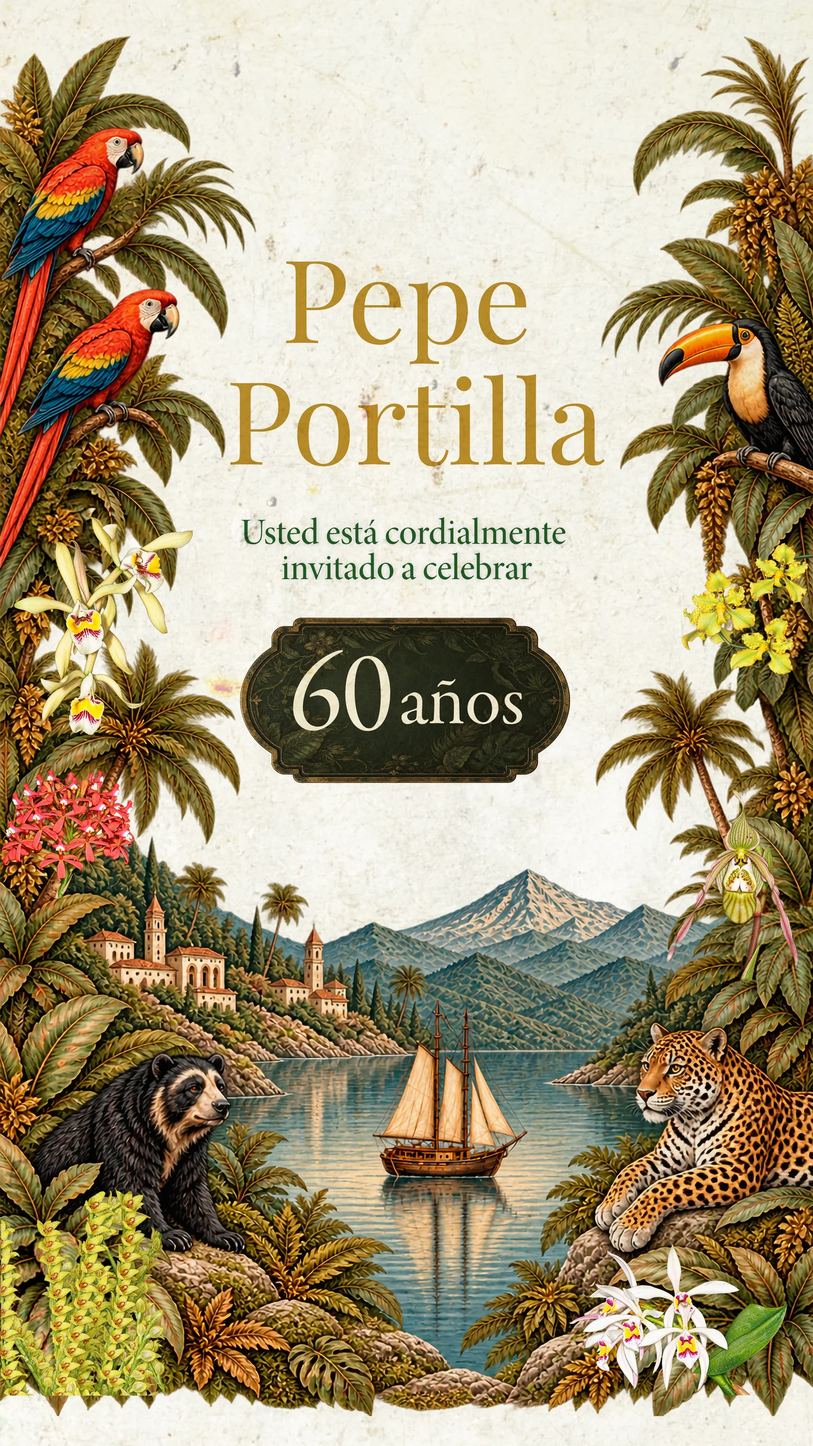
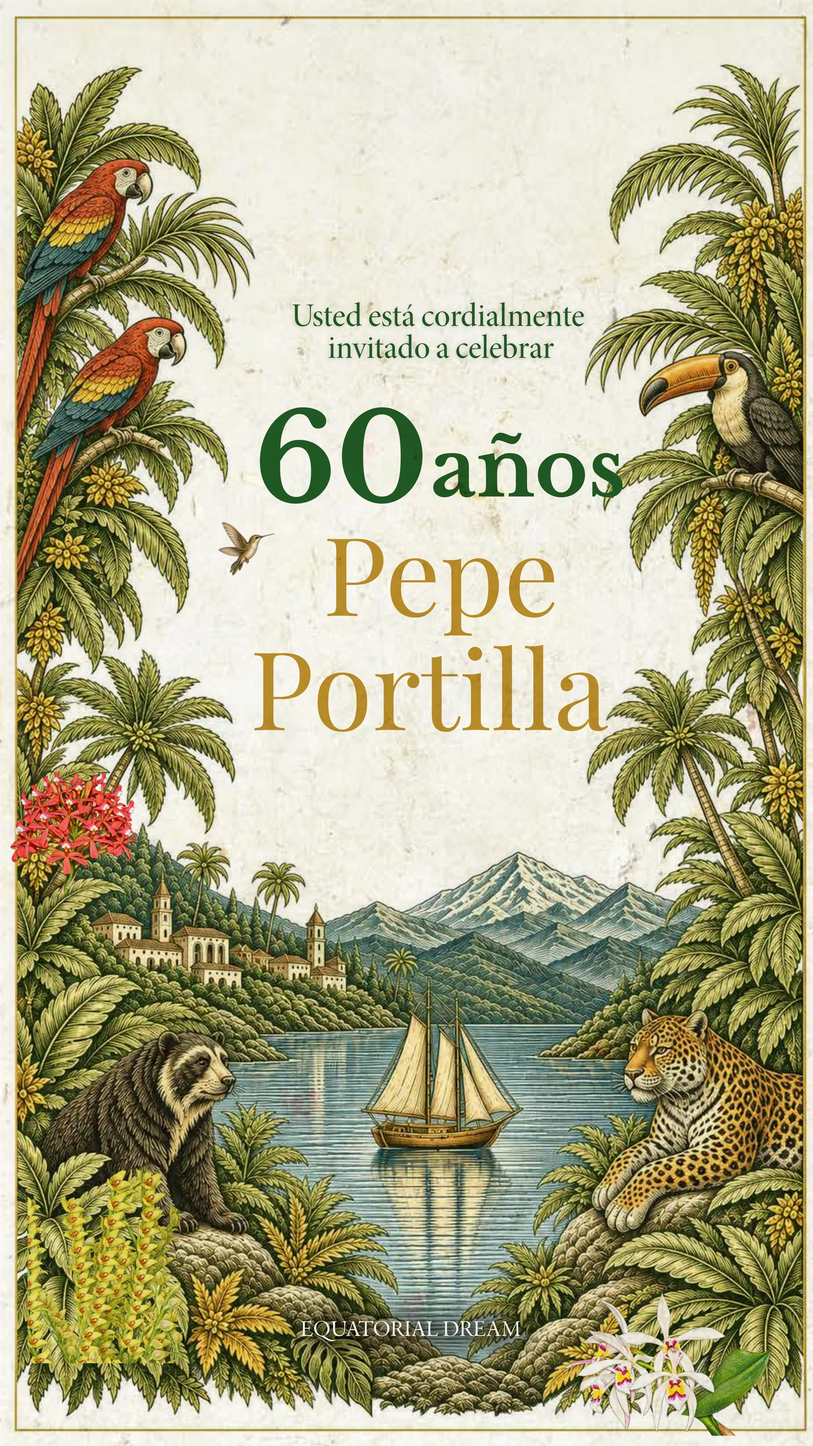
Add files via upload

diff --git a/index.html b/index.html
@@ -89,14 +89,14 @@
         <!-- 5. Fecha y lugar -->
         <section class="pagina" data-pag="fecha" aria-label="Fecha y lugar">
           <img class="base" src="img/p05_fecha.webp" alt="Sábado 9 de enero, 4pm. El evento tendrá lugar en Uzhupud Garden, Paute - Ecuador." width="1440" height="2560" decoding="async">
-          <span class="late" style="--l:31.5;--t:74.3;--w:37;--h:4.2" data-img="p05_fecha"></span>
-          <a class="zona" data-accion="mapa" target="_blank" rel="noopener" aria-label="Ver ubicación en el mapa" style="left:31.5%;top:74.3%;width:37%;height:4.2%"></a>
-          <a class="zona suave" data-accion="mapa" target="_blank" rel="noopener" tabindex="-1" aria-hidden="true" style="left:18%;top:51%;width:64%;height:19%"></a>
+          <span class="late" style="--l:34.7;--t:78;--w:31.9;--h:3.6" data-img="p05_fecha"></span>
+          <a class="zona" data-accion="mapa" target="_blank" rel="noopener" aria-label="Ver ubicación en el mapa" style="left:33%;top:77%;width:35%;height:5.6%"></a>
+          <a class="zona suave" data-accion="mapa" target="_blank" rel="noopener" tabindex="-1" aria-hidden="true" style="left:18%;top:55%;width:64%;height:20%"></a>
         </section>
 
         <!-- 6. Agenda -->
         <section class="pagina" data-pag="agenda" aria-label="Agenda de la noche">
-          <img class="base" src="img/p06_agenda.webp" alt="Agenda de la noche: ceremonia en la Capilla San José 16h00, cóctel de bienvenida en el Museo 17h00, cena de recepción 20h00, fiesta de celebración 20h30." width="1440" height="2560" decoding="async">
+          <img class="base" src="img/p06_agenda.webp" alt="Agenda de la noche: ceremonia en la Capilla San José 16h00, cóctel 17h00, cena de recepción 20h00, fiesta de celebración 20h30." width="1440" height="2560" decoding="async">
           <img class="estrella" src="img/p06_estrella.png" alt="" aria-hidden="true">
         </section>
 
@@ -107,23 +107,25 @@
 
         <!-- 8. Confirmación -->
         <section class="pagina" data-pag="confirmacion" aria-label="Confirmación de asistencia">
-          <img class="base" src="img/p08_confirmacion.webp" alt="Agradecemos su confirmación hasta el 27 de diciembre del 2026." width="1440" height="2560" decoding="async">
-          <span class="late" style="--l:9.4;--t:64.8;--w:42;--h:5.4" data-img="p08_confirmacion"></span>
-          <a class="zona" data-accion="confirmar" target="_blank" rel="noopener" aria-label="Confirmar asistencia por WhatsApp" style="left:9.4%;top:64.8%;width:42%;height:5.4%"></a>
+          <img class="base" src="img/p08_confirmacion.webp" alt="Agradecemos su confirmación hasta el 28 de diciembre de 2026. Por la naturaleza de la celebración, este evento será exclusivamente para adultos; agradecemos confirmar únicamente la asistencia de las personas contempladas en su invitación." width="1440" height="2560" decoding="async">
+          <span class="late" style="--l:15.4;--t:62.2;--w:38.8;--h:4.9" data-img="p08_confirmacion"></span>
+          <a class="zona" data-accion="confirmar" target="_blank" rel="noopener" aria-label="Confirmar asistencia por WhatsApp" style="left:14%;top:61%;width:41.6%;height:7.2%"></a>
         </section>
 
         <!-- 9. Hospedaje -->
         <section class="pagina" data-pag="hospedaje" aria-label="Hospedaje con tarifa especial">
           <img class="base" src="img/p09_hospedaje.webp" alt="Hospedaje. Tarifa especial disponible para nuestros amigos en Uzhupud Garden." width="1440" height="2560" decoding="async">
-          <span class="late" style="--l:50.5;--t:56.8;--w:38.5;--h:4.8" data-img="p09_hospedaje"></span>
-          <a class="zona" data-accion="hospedaje" target="_blank" rel="noopener" aria-label="Reservar hospedaje por WhatsApp" style="left:50.5%;top:56.8%;width:38.5%;height:4.8%"></a>
+          <span class="late" style="--l:53;--t:58.5;--w:38.7;--h:4.9" data-img="p09_hospedaje"></span>
+          <a class="zona" data-accion="hospedaje" target="_blank" rel="noopener" aria-label="Reservar hospedaje por WhatsApp" style="left:51.5%;top:57.3%;width:41.7%;height:7.3%"></a>
         </section>
 
         <!-- 10. Obsequio -->
         <section class="pagina" data-pag="obsequio" aria-label="Obsequio">
-          <img class="base" src="img/p10_obsequio.webp" alt="Obsequio. Su obsequio en sobre cerrado o transferencia será donado para la Fundación Santa María de la Esperanza." width="1440" height="2560" decoding="async">
-          <span class="late suave" style="--l:33.5;--t:56.2;--w:33;--h:4.8" data-img="p10_obsequio"></span>
-          <a class="zona suave" data-accion="obsequio" target="_blank" rel="noopener" aria-label="Fundación Santa María de la Esperanza" style="left:33.5%;top:56.2%;width:33%;height:4.8%"></a>
+          <img class="base" src="img/p10_obsequio.webp" alt="Obsequio. Su obsequio en sobre cerrado o transferencia será donado para la Fundación Santa María de la Esperanza o la Conferencia San Vicente de Paúl." width="1440" height="2560" decoding="async">
+          <span class="late suave" style="--l:37.3;--t:53.7;--w:31.8;--h:5.5" data-img="p10_obsequio"></span>
+          <a class="zona suave" data-accion="obsequio" target="_blank" rel="noopener" aria-label="Fundación Santa María de la Esperanza" style="left:36%;top:53.2%;width:34.4%;height:6.6%"></a>
+          <span class="late suave" style="--l:37.3;--t:61;--w:31.8;--h:5.5" data-img="p10_obsequio"></span>
+          <a class="zona suave" data-accion="obsequio2" target="_blank" rel="noopener" aria-label="Conferencia San Vicente de Paúl" style="left:36%;top:60.4%;width:34.4%;height:6.6%"></a>
         </section>
 
         <!-- 11. Te esperamos -->

diff --git a/css/styles.css b/css/styles.css
@@ -174,7 +174,7 @@ a, button { touch-action: manipulation; }
 /* ---------- Agenda: la estrella baja por la línea de puntos ---------- */
 .estrella {
   position: absolute; z-index: 4; pointer-events: none;
-  left: 21.94%; top: 21.41%; width: 10.56%; height: 6.88%;
+  left: 20.56%; top: 16.56%; width: 10.56%; height: 7.03%;
   filter: drop-shadow(0 0 5px rgba(255, 214, 140, .55));
   will-change: transform, opacity;
 }
@@ -182,8 +182,8 @@ a, button { touch-action: manipulation; }
 @keyframes estrella {
   0%    { transform: translateY(0) rotate(0); opacity: 1; }
   8%    { transform: translateY(0) rotate(0); opacity: 1; }
-  72%   { transform: translateY(940%) rotate(360deg); opacity: 1; }
-  80%   { transform: translateY(1000%) rotate(400deg); opacity: 0; }
+  72%   { transform: translateY(800%) rotate(360deg); opacity: 1; }
+  80%   { transform: translateY(860%) rotate(400deg); opacity: 0; }
   80.1% { transform: translateY(-60%) rotate(0); opacity: 0; }
   92%   { transform: translateY(0) rotate(0); opacity: 1; }
   100%  { transform: translateY(0) rotate(0); opacity: 1; }

diff --git a/js/vivo.js b/js/vivo.js
@@ -8,8 +8,8 @@
    ===================================================================== */
 window.VIVO = {
   /* pagina (data-pag): { video, fija (opcional), poster (opcional), unaVez: true = se reproduce una vez y queda en el último cuadro } */
-  selva: { video: "video/p03_selva.mp4", fija: "img/p03_fija.webp" },
-  confirmacion: { video: "video/p08_confirmacion.mp4", fija: "img/p08_fija.webp" },
+  /* selva: el arte cambió el 26-nov; falta el video nuevo con el diseño actualizado */
+  /* confirmacion: el arte cambió el 26-nov; falta el video nuevo con el diseño actualizado */
   cuenta: { video: "video/p04_flores.mp4", fija: "img/p04_fija.webp", poster: "img/p04_poster.jpg", unaVez: true },
 };
 

diff --git a/js/app.js b/js/app.js
@@ -185,7 +185,8 @@
     confirmar: U.whatsapp(C.confirmacion.whatsapp,
       C.confirmacion.mensaje.replace(/\{nombre\}/g, invitado || C.confirmacion.sinNombre || "")),
     hospedaje: U.whatsapp(C.hospedaje.whatsapp, C.hospedaje.mensaje),
-    obsequio: C.obsequio
+    obsequio: C.obsequio,
+    obsequio2: C.obsequio2
   };
   Array.prototype.forEach.call(document.querySelectorAll("[data-accion]"), function (a) {
     var u = enlaces[a.getAttribute("data-accion")]; if (u) a.href = u;

diff --git a/config.js b/config.js
@@ -42,6 +42,10 @@ window.INVITACION = {
   /* Botón de la fundación (obsequio) */
   obsequio: "https://sites.google.com/view/santamariadelaesperanza/inicio?authuser=1",
 
+  /* Segundo botón del obsequio: Conferencia San Vicente de Paúl.
+     Pega aquí su link (página, Instagram o WhatsApp). Vacío = el botón no abre nada. */
+  obsequio2: "",
+
   /* Texto de la portada cuando el link no trae nombre */
   sinNombre: "Te esperamos",
 

diff --git a/README.md b/README.md
@@ -14,11 +14,11 @@ Link por invitado: `index.html?nombre=Sr.+Juan+Pérez+y+Sra` (lo crea `generador
 
 | Archivo / carpeta | Qué contiene | ¿Cuándo se edita? |
 |---|---|---|
-| **`config.js`** | Fecha y hora, link del mapa, teléfonos y mensajes de WhatsApp (código PP60), link de la fundación, música | Casi siempre aquí |
+| **`config.js`** | Fecha y hora, link del mapa, teléfonos y mensajes de WhatsApp (código PP60), links del obsequio (fundación y Conferencia San Vicente de Paúl), música | Casi siempre aquí |
 | `img/p01…p11_*.webp` | Las 11 pantallas del diseño en HD (1440×2560) | Solo si cambia el diseño |
 | `img/p02_cuero.webp`, `p02_logo_capa.webp`, `p02_logo_brillo.png` | Pantalla del logo separada en fondo + logo + brillo | Si cambia el logo |
 | `musica/con_te_partiro.mp3` | Música de fondo (Con te partirò, instrumental, 5 min). Empieza al tocar el sello; el botón de arriba a la derecha la pausa | Para cambiar la canción: reemplaza el archivo con el mismo nombre |
-| `video/` | Videos con movimiento de cada pantalla (por ahora `p03_selva.mp4`) | Para agregar movimiento a otra pantalla |
+| `video/` | Videos con movimiento. Hoy se usa `p04_flores.mp4` (flores que se abren en la cuenta regresiva). `p03_selva.mp4` y `p08_confirmacion.mp4` son del diseño anterior y están apagados en `js/vivo.js` hasta tener los videos del diseño nuevo | Para agregar movimiento a otra pantalla |
 | `js/vivo.js` | Lista de qué pantalla usa qué video | Al agregar un video nuevo |
 | `index.html` | Las pantallas y la posición de los botones (`left/top/width/height` en %) | Solo para mover un botón |
 | `css/`, `js/app.js` | Diseño y funcionamiento | No |
